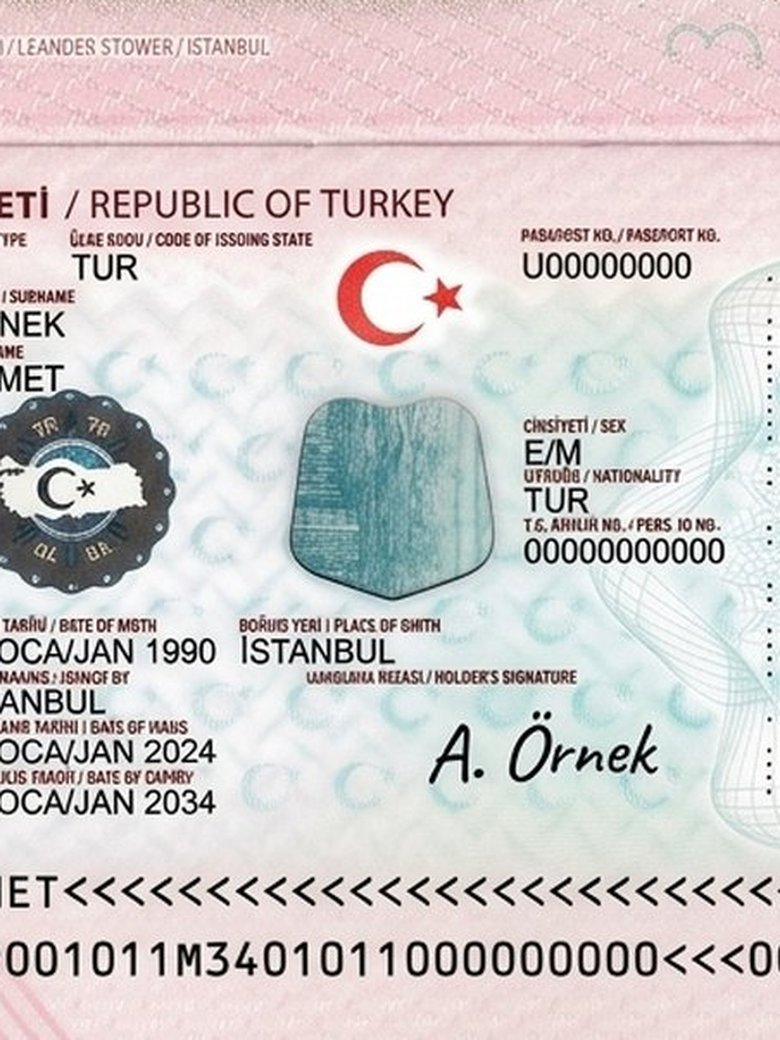
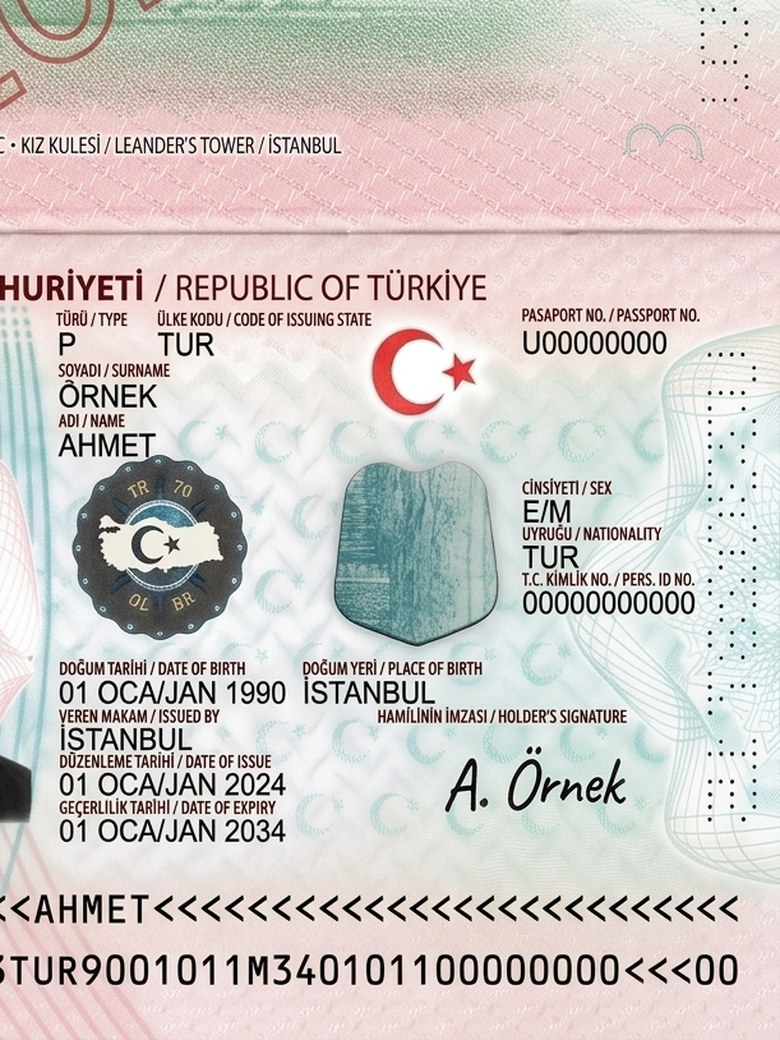
## Dubai Ofis Bilgileri + Gerçek Türk Pasaportu Örneği
**1) Dubai adres bilgisi artık sitede kalıcı** — Kök nedeni buldum: `CompanyInfoIn` alanlarının varsayılanı `""` olduğu için **kısmi** bir `PUT /admin/company` çağrısı gönderilmeyen tüm alanları boş yazıp `dubai_address` / `dubai_phone`'u siliyordu (bu yüzden ofis kartı 3. kez kayboldu). Artık gönderilmeyen alanlar korunuyor (`None`) ve okuma yolunda boş kalırsa varsayılanla doluyor. Footer'da ve `/iletisim` sayfasında **İstanbul + Dubai (BAE)** ofisleri, telefonları ve haritaları görünüyor (Playwright ile teyit edildi).

**2) Pasaport kimlik sayfası görseli gerçekçi hâle getirildi** — WhatsApp sohbet mockup'ındaki eski bej/genel görsel yerine gerçek TR e-pasaport düzeninde (pembe–mint guilloche, arma, MRZ satırları) **örnek** belge kondu; veriler kurgusal (ÖRNEK / AYŞE, U00000000). Başlık isteğiniz üzerine **"TÜRKİYE CUMHURİYETİ / REPUBLIC OF TÜRKİYE"** oldu; pasaport rehberindeki `ok.jpg` ve `bad-crop.jpg` örnekleri de aynı yazımla ve düzgün alan etiketleriyle yenilendi.

Doğrulama: `pytest backend/tests` → **636 passed, 3 skipped** (yeni `test_iteration_141_dubai_office.py` dahil); kısmi şirket kaydı sonrası Dubai alanlarının korunduğu API'den kontrol edildi.

- Next Action Items:
  - **Şirket Ünvanı Girişi**: Admin → Acente Bilgileri'nden "Moruya Travel Solutions" ünvanını ve TÜRSAB belge numarasını gir
  - **Gerçek IBAN'lar**: Havale ödemesi için gerçek TL/USD IBAN'ları panelden gir, ödeme adımı canlıya hazır olsun
[…]

diff --git a/frontend/src/components/WhatsAppPhoneMock.jsx b/frontend/src/components/WhatsAppPhoneMock.jsx
@@ -150,7 +150,7 @@ const Bubble = ({ m, i }) => {
                 {m.image && (
                     <img
                         src={m.image}
-                        alt="Sohbette paylaşılan pasaport kimlik sayfası (bilgiler bulanıklaştırıldı)"
+                        alt="Sohbette paylaşılan pasaport kimlik sayfası (örnek belge)"
                         className="mb-1.5 block w-full rounded-md border border-black/5 bg-white object-contain"
                         loading="lazy"
                         data-testid="wa-bubble-passport-image"
@@ -332,7 +332,7 @@ export const WhatsAppPhoneMock = ({ href }) => {
                 <strong className="font-semibold text-foreground/80" data-testid="wa-chat-label">
                     {scenario.label}
                 </strong>{" "}
-                · Gerçek görüşmelerden uyarlandı; isim, numara ve pasaport bilgileri gizlendi.
+                · Gerçek görüşmelerden uyarlandı; isim ve numaralar gizlendi, pasaport görseli örnek belgedir.
             </p>
         </div>
     );

diff --git a/backend/models.py b/backend/models.py
@@ -295,24 +295,26 @@ class BankTransferIn(BaseModel):
 
 
 class CompanyInfoIn(BaseModel):
-    brand: Optional[str] = Field(default="", max_length=80)
+    # Gonderilmeyen alanlar None kalir ve kayitta korunur (kismi kayit alan silmesin);
+    # bos string bilincli silme sayilir.
+    brand: Optional[str] = Field(default=None, max_length=80)
     legal_name: str = Field(..., min_length=2, max_length=160)
-    phone: Optional[str] = Field(default="", max_length=40)
-    whatsapp: Optional[str] = Field(default="", max_length=30)
-    email: Optional[str] = Field(default="", max_length=120)
-    instagram: Optional[str] = Field(default="", max_length=200)
-    google_review: Optional[str] = Field(default="", max_length=300)
-    address: Optional[str] = Field(default="", max_length=240)
-    dubai_address: Optional[str] = Field(default="", max_length=240)
-    dubai_phone: Optional[str] = Field(default="", max_length=40)
-    working_hours: Optional[str] = Field(default="", max_length=160)
-    tursab_no: Optional[str] = Field(default="", max_length=30)
-    tursab_type: Optional[str] = Field(default="", max_length=80)
-    tax_office: Optional[str] = Field(default="", max_length=80)
-    tax_no: Optional[str] = Field(default="", max_length=30)
-    mersis_no: Optional[str] = Field(default="", max_length=30)
-    trade_registry_no: Optional[str] = Field(default="", max_length=30)
-    founded_year: Optional[str] = Field(default="", max_length=10)
+    phone: Optional[str] = Field(default=None, max_length=40)
+    whatsapp: Optional[str] = Field(default=None, max_length=30)
+    email: Optional[str] = Field(default=None, max_length=120)
+    instagram: Optional[str] = Field(default=None, max_length=200)
+    google_review: Optional[str] = Field(default=None, max_length=300)
+    address: Optional[str] = Field(default=None, max_length=240)
+    dubai_address: Optional[str] = Field(default=None, max_length=240)
+    dubai_phone: Optional[str] = Field(default=None, max_length=40)
+    working_hours: Optional[str] = Field(default=None, max_length=160)
+    tursab_no: Optional[str] = Field(default=None, max_length=30)
+    tursab_type: Optional[str] = Field(default=None, max_length=80)
+    tax_office: Optional[str] = Field(default=None, max_length=80)
+    tax_no: Optional[str] = Field(default=None, max_length=30)
+    mersis_no: Optional[str] = Field(default=None, max_length=30)
+    trade_registry_no: Optional[str] = Field(default=None, max_length=30)
+    founded_year: Optional[str] = Field(default=None, max_length=10)
 
 
 class SocialLinkIn(BaseModel):

diff --git a/backend/tests/test_iteration_141_dubai_office.py b/backend/tests/test_iteration_141_dubai_office.py
@@ -1,0 +1,56 @@
+"""Iteration 141: Dubai ofis bilgileri sitede kaybolmasin.
+
+Kullanici: "dubai adres bilgilerini goster sitede". Kok neden: `CompanyInfoIn` alanlarinin
+varsayilani `""` oldugu icin KISMI bir `PUT /admin/company` cagrisi gonderilmeyen tum
+alanlari bos string olarak yaziyordu (dubai_address / dubai_phone silinip footer ve
+iletisim sayfasindaki Dubai ofis karti gizleniyordu). Artik:
+- gonderilmeyen alanlar `None` kalir ve kayitta korunur,
+- okuma yolunda bos kalan ofis alanlari statik varsayilanla doldurulur.
+"""
+
+import os
+import sys
+
+BACKEND_DIR = os.path.abspath(os.path.join(os.path.dirname(__file__), ".."))
+if BACKEND_DIR not in sys.path:
+    sys.path.insert(0, BACKEND_DIR)
+
+from content import ALWAYS_FILLED, COMPANY, company_with_defaults
+from models import CompanyInfoIn
+
+
+class TestKismiKayit:
+    def test_gonderilmeyen_alanlar_none_kalir(self):
+        payload = CompanyInfoIn(legal_name="Moruya Travel Solutions Turizm Ltd. Şti.")
+        data = payload.model_dump()
+        assert data["dubai_address"] is None
+        assert data["dubai_phone"] is None
+        # route filtresi None alanlari yazmaz -> mevcut deger korunur
+        assert {k: v for k, v in data.items() if v is not None} == {
+            "legal_name": "Moruya Travel Solutions Turizm Ltd. Şti."
+        }
+
+    def test_bos_string_bilincli_silmedir(self):
+        data = CompanyInfoIn(legal_name="Moruya Travel", dubai_phone="").model_dump()
+        assert data["dubai_phone"] == ""
+
+
+class TestOfisAlanlariniDoldurma:
+    def test_bos_dubai_alanlari_varsayilanla_dolar(self):
+        company = company_with_defaults({"dubai_address": "", "dubai_phone": "   "})
+        for field in ALWAYS_FILLED:
+            assert company[field] == COMPANY[field]
+
+    def test_panelde_girilen_deger_korunur(self):
+        company = company_with_defaults({"dubai_address": "Business Bay Tower, Dubai"})
+        assert company["dubai_address"] == "Business Bay Tower, Dubai"
+        assert company["dubai_phone"] == COMPANY["dubai_phone"]
+
+    def test_kayit_yoksa_sabitler_donuyor(self):
+        assert company_with_defaults(None)["dubai_address"] == COMPANY["dubai_address"]
+
+    def test_diger_alanlar_bos_birakilabilir(self):
+        """Yasal kunye alanlari bilincli olarak bos kalabilir (sitede gizleniyor)."""
+        company = company_with_defaults({"tursab_no": "", "tax_no": ""})
+        assert company["tursab_no"] == ""
+        assert company["tax_no"] == ""

diff --git a/backend/routes_admin.py b/backend/routes_admin.py
@@ -27,7 +27,7 @@ import visa_file_number
 from admin_auth import SESSION_DAYS, create_token, hash_code, require_admin
 from application_docs import application_form_bytes, form_filename, visa_pdf_attachment
 from payment_receipt_pdf import build_receipt_pdf, receipt_attachment, receipt_filename
-from content import BANK_TRANSFER, COMPANY, STATUS_LABELS
+from content import BANK_TRANSFER, COMPANY, STATUS_LABELS, company_with_defaults
 from db import (
     admin_login_codes_col,
     applications_col,
@@ -708,13 +708,12 @@ async def admin_mark_paid(application_id: str, admin: dict = Depends(require_adm
 @router.get("/admin/company")
 async def admin_get_company(admin: dict = Depends(require_admin)) -> dict:
     doc = await settings_col.find_one({"key": "company_info"})
-    return {**COMPANY, **((doc or {}).get("value") or {})}
+    return company_with_defaults((doc or {}).get("value"))
 
 
 @router.put("/admin/company")
 async def admin_update_company(payload: CompanyInfoIn, admin: dict = Depends(require_admin)) -> dict:
-    # Bos string'ler de yazilir (COMPANY varsayilanini ezebilmek icin); gonderilmeyen
-    # alanlar korunur — kismi kayit diger iletisim bilgilerini silmesin.
+    # Gonderilmeyen alanlar (None) korunur; bos string bilincli silme sayilir.
     value = {k: v for k, v in payload.model_dump().items() if v is not None}
     await settings_col.update_one(
         {"key": "company_info"},
@@ -727,7 +726,7 @@ async def admin_update_company(payload: CompanyInfoIn, admin: dict = Depends(req
         upsert=True,
     )
     doc = await settings_col.find_one({"key": "company_info"})
-    return {**COMPANY, **((doc or {}).get("value") or {})}
+    return company_with_defaults((doc or {}).get("value"))
 
 
 # ------------------------------------------------------- Sosyal medya hesaplari

diff --git a/backend/content.py b/backend/content.py
@@ -560,8 +560,7 @@ COMPANY = {
     "google_review": "https://www.google.com/search?q=Dubai+Vize+Hatt%C4%B1+yorumlar",
     "address": "Büyükdere Caddesi Nurol Plaza No:255/B02, 34450 Sarıyer / İstanbul - Türkiye",
     "dubai_address": "Level 27, Unit 2705, Marina Plaza, Dubai Marina, Dubai - United Arab Emirates",
-    "dubai_phone": "+971 50 867 26 30",
-    "working_hours": "Hafta içi 09:00 - 19:00, Cumartesi 10:00 - 16:00",
+    "dubai_phone": "+971 50 867 26 30",    "working_hours": "Hafta içi 09:00 - 19:00, Cumartesi 10:00 - 16:00",
     # Yasal kunye alanlari: gercek degerler admin -> Acente ekranindan girilir.
     # Bos birakilan satirlar sitede hic gosterilmez; ornek/sifir deger yaziLMAZ.
     "tursab_no": "",
@@ -572,6 +571,19 @@ COMPANY = {
     "trade_registry_no": "",
     "founded_year": "2019",
 }
+
+# Musteriye gosterilen Dubai ofis bilgileri: DB'de bos kalsa da varsayilanla doldurulur
+# (panelden kismi kayit veya test verisi bu alanlari silmis olabilir).
+ALWAYS_FILLED = ("dubai_address", "dubai_phone")
+
+
+def company_with_defaults(value: dict | None) -> dict:
+    """Panelden girilen degerleri sabitlerin uzerine yazar; ofis alanlari bos kalmaz."""
+    company = {**COMPANY, **(value or {})}
+    for field in ALWAYS_FILLED:
+        if not str(company.get(field) or "").strip():
+            company[field] = COMPANY[field]
+    return company
 
 AGENCY_INFO = {
     "title": "Acente Bilgilerimiz",

diff --git a/backend/server.py b/backend/server.py
@@ -8,7 +8,15 @@ from datetime import datetime, timezone
 from fastapi import APIRouter, FastAPI
 from fastapi.middleware.cors import CORSMiddleware
 
-from content import ARTICLES, COMPANY, REVIEW_SUMMARY, TESTIMONIALS, VISA_TYPES, compute_pricing
+from content import (
+    ALWAYS_FILLED,
+    ARTICLES,
+    COMPANY,
+    REVIEW_SUMMARY,
+    TESTIMONIALS,
+    VISA_TYPES,
+    compute_pricing,
+)
 from db import (
     applications_col,
     articles_col,
@@ -222,7 +230,7 @@ PLACEHOLDER_CONTACT = {
 
 
 # DB'de bos kalirsa statik varsayilandan doldurulur (Dubai ofis karti/haritasi kaybolmasin)
-FILL_IF_EMPTY = ("dubai_address", "dubai_phone")
+FILL_IF_EMPTY = ALWAYS_FILLED
 
 
 async def fix_placeholder_contact() -> None:

diff --git a/backend/routes_public.py b/backend/routes_public.py
@@ -29,6 +29,7 @@ from content import (
     ARTICLES,
     BANK_TRANSFER,
     COMPANY,
+    company_with_defaults,
     FAMILY_DISCOUNT_TEXT,
     FAMILY_DISCOUNT_TIERS,
     FAQ,
@@ -294,7 +295,7 @@ async def public_fx() -> dict:
 async def _company_info() -> dict:
     """Sabit sirket bilgileri uzerine admin panelinden girilen alanlar yazilir."""
     company_doc = await settings_col.find_one({"key": "company_info"})
-    return {**COMPANY, **((company_doc or {}).get("value") or {})}
+    return company_with_defaults((company_doc or {}).get("value"))
 
 
 def _agency_info(company: dict) -> dict:

diff --git a/memory/CHANGELOG.md b/memory/CHANGELOG.md
@@ -3108,3 +3108,26 @@ sadelestirmemiz gerekiyor" -> secilen plan (a): tek oneri blogu + acilir katalog
 - Eski test tazelendi: `test_iteration_125_placeholder_contact.py` artik Dubai ofis
   alanlarinin acilista otomatik doldurulmasini hesaba katiyor (4 kirmizi test yesillendi).
 - pytest: **631 passed, 3 skipped**.
+
+### 2026-06-18 (33) · Dubai ofis bilgileri sitede kalici + gercekci TR pasaport ornegi
+- **Kok neden bulundu (3. kez tekrar eden kayip)**: `CompanyInfoIn` alanlarinin varsayilani
+  `""` oldugu icin KISMI bir `PUT /admin/company` cagrisi gonderilmeyen tum alanlari bos
+  string olarak yaziyordu → `dubai_address` / `dubai_phone` siliniyor, footer ve iletisim
+  sayfasindaki Dubai ofis karti (harita dahil) gizleniyordu. Acilistaki otomatik doldurma
+  (`fix_placeholder_contact`) her restart'ta yeniden dolduruyor, sonraki kismi kayit tekrar
+  siliyordu (log: her acilista "placeholder contact fixed").
+- Duzeltme: (1) `models.CompanyInfoIn` opsiyonel alanlarin varsayilani `None` — gonderilmeyen
+  alan artik korunuyor, bos string bilincli silme sayiliyor; (2) yeni `content.company_with_defaults()`
+  okuma yolunda bos kalan Dubai ofis alanlarini statik varsayilanla dolduruyor
+  (`/content/site`, `GET/PUT /admin/company` ayni yardimciyi kullaniyor).
+- Dogrulama: `PUT /api/admin/company {"legal_name": "..."}` (kismi) sonrasi dubai_address ve
+  dubai_phone duruyor; `/iletisim` iki ofis kartini + iki haritayi, footer Dubai satirini
+  gosteriyor (Playwright ile teyit). Test: `tests/test_iteration_141_dubai_office.py` (6).
+- Pasaport gorselleri (kullanici istegi: "gercek turk pasaportu olsun", "REPUBLIC OF TURKEY
+  degil TURKIYE"): WhatsApp mockup'taki eski bej/genel gorsel yerine gercek TR e-pasaport
+  kimlik sayfasi duzeninde (pembe-mint guilloche, arma, MRZ) **ornek** belge kondu
+  (`public/chat/passport-bio.jpg`, kurgusal veri: ÖRNEK / AYŞE, U00000000). Rehber
+  ornekleri de yenilendi: `passport-guide/ok.jpg` ve `bad-crop.jpg` artik
+  "TÜRKİYE CUMHURİYETİ / REPUBLIC OF TÜRKİYE" yaziyor ve alan etiketleri duzgun.
+  Mockup alt yazisi: "isim ve numaralar gizlendi, pasaport gorseli ornek belgedir".
+- pytest: **636 passed, 3 skipped**.

diff --git a/memory/PRD.md b/memory/PRD.md
@@ -1760,3 +1760,10 @@ fotograflari, ATV +40 USD ek secenek.
   (fatura ozeti C15, form fiyat dokumu C11, tamamliyo._request C16) A/B seviyesine indi.
 - Tutar kolonundaki "TL"ler tum tablolarda ayni hizada; dogum yeri pasaport okumasindan
   tamamlanip "Istanbul" yazimiyla basiliyor. Detay: CHANGELOG 2026-06-18 (32).
+
+## 2026-06-18 (fork, 11) · Dubai ofis bilgileri + gercekci pasaport ornegi
+- Dubai ofis adresi/telefonu artik sitede kalici: kismi sirket kaydi alanlari silmiyor
+  (`CompanyInfoIn` varsayilani `None`), okuma yolunda bos kalirsa varsayilanla doluyor
+  (`content.company_with_defaults`). Footer + `/iletisim` iki ofis karti ve haritayi gosteriyor.
+- WhatsApp mockup ve pasaport rehberi gorselleri gercek TR e-pasaport kimlik sayfasi
+  duzeninde ornek belgelerle yenilendi ("TÜRKİYE CUMHURİYETİ / REPUBLIC OF TÜRKİYE").
